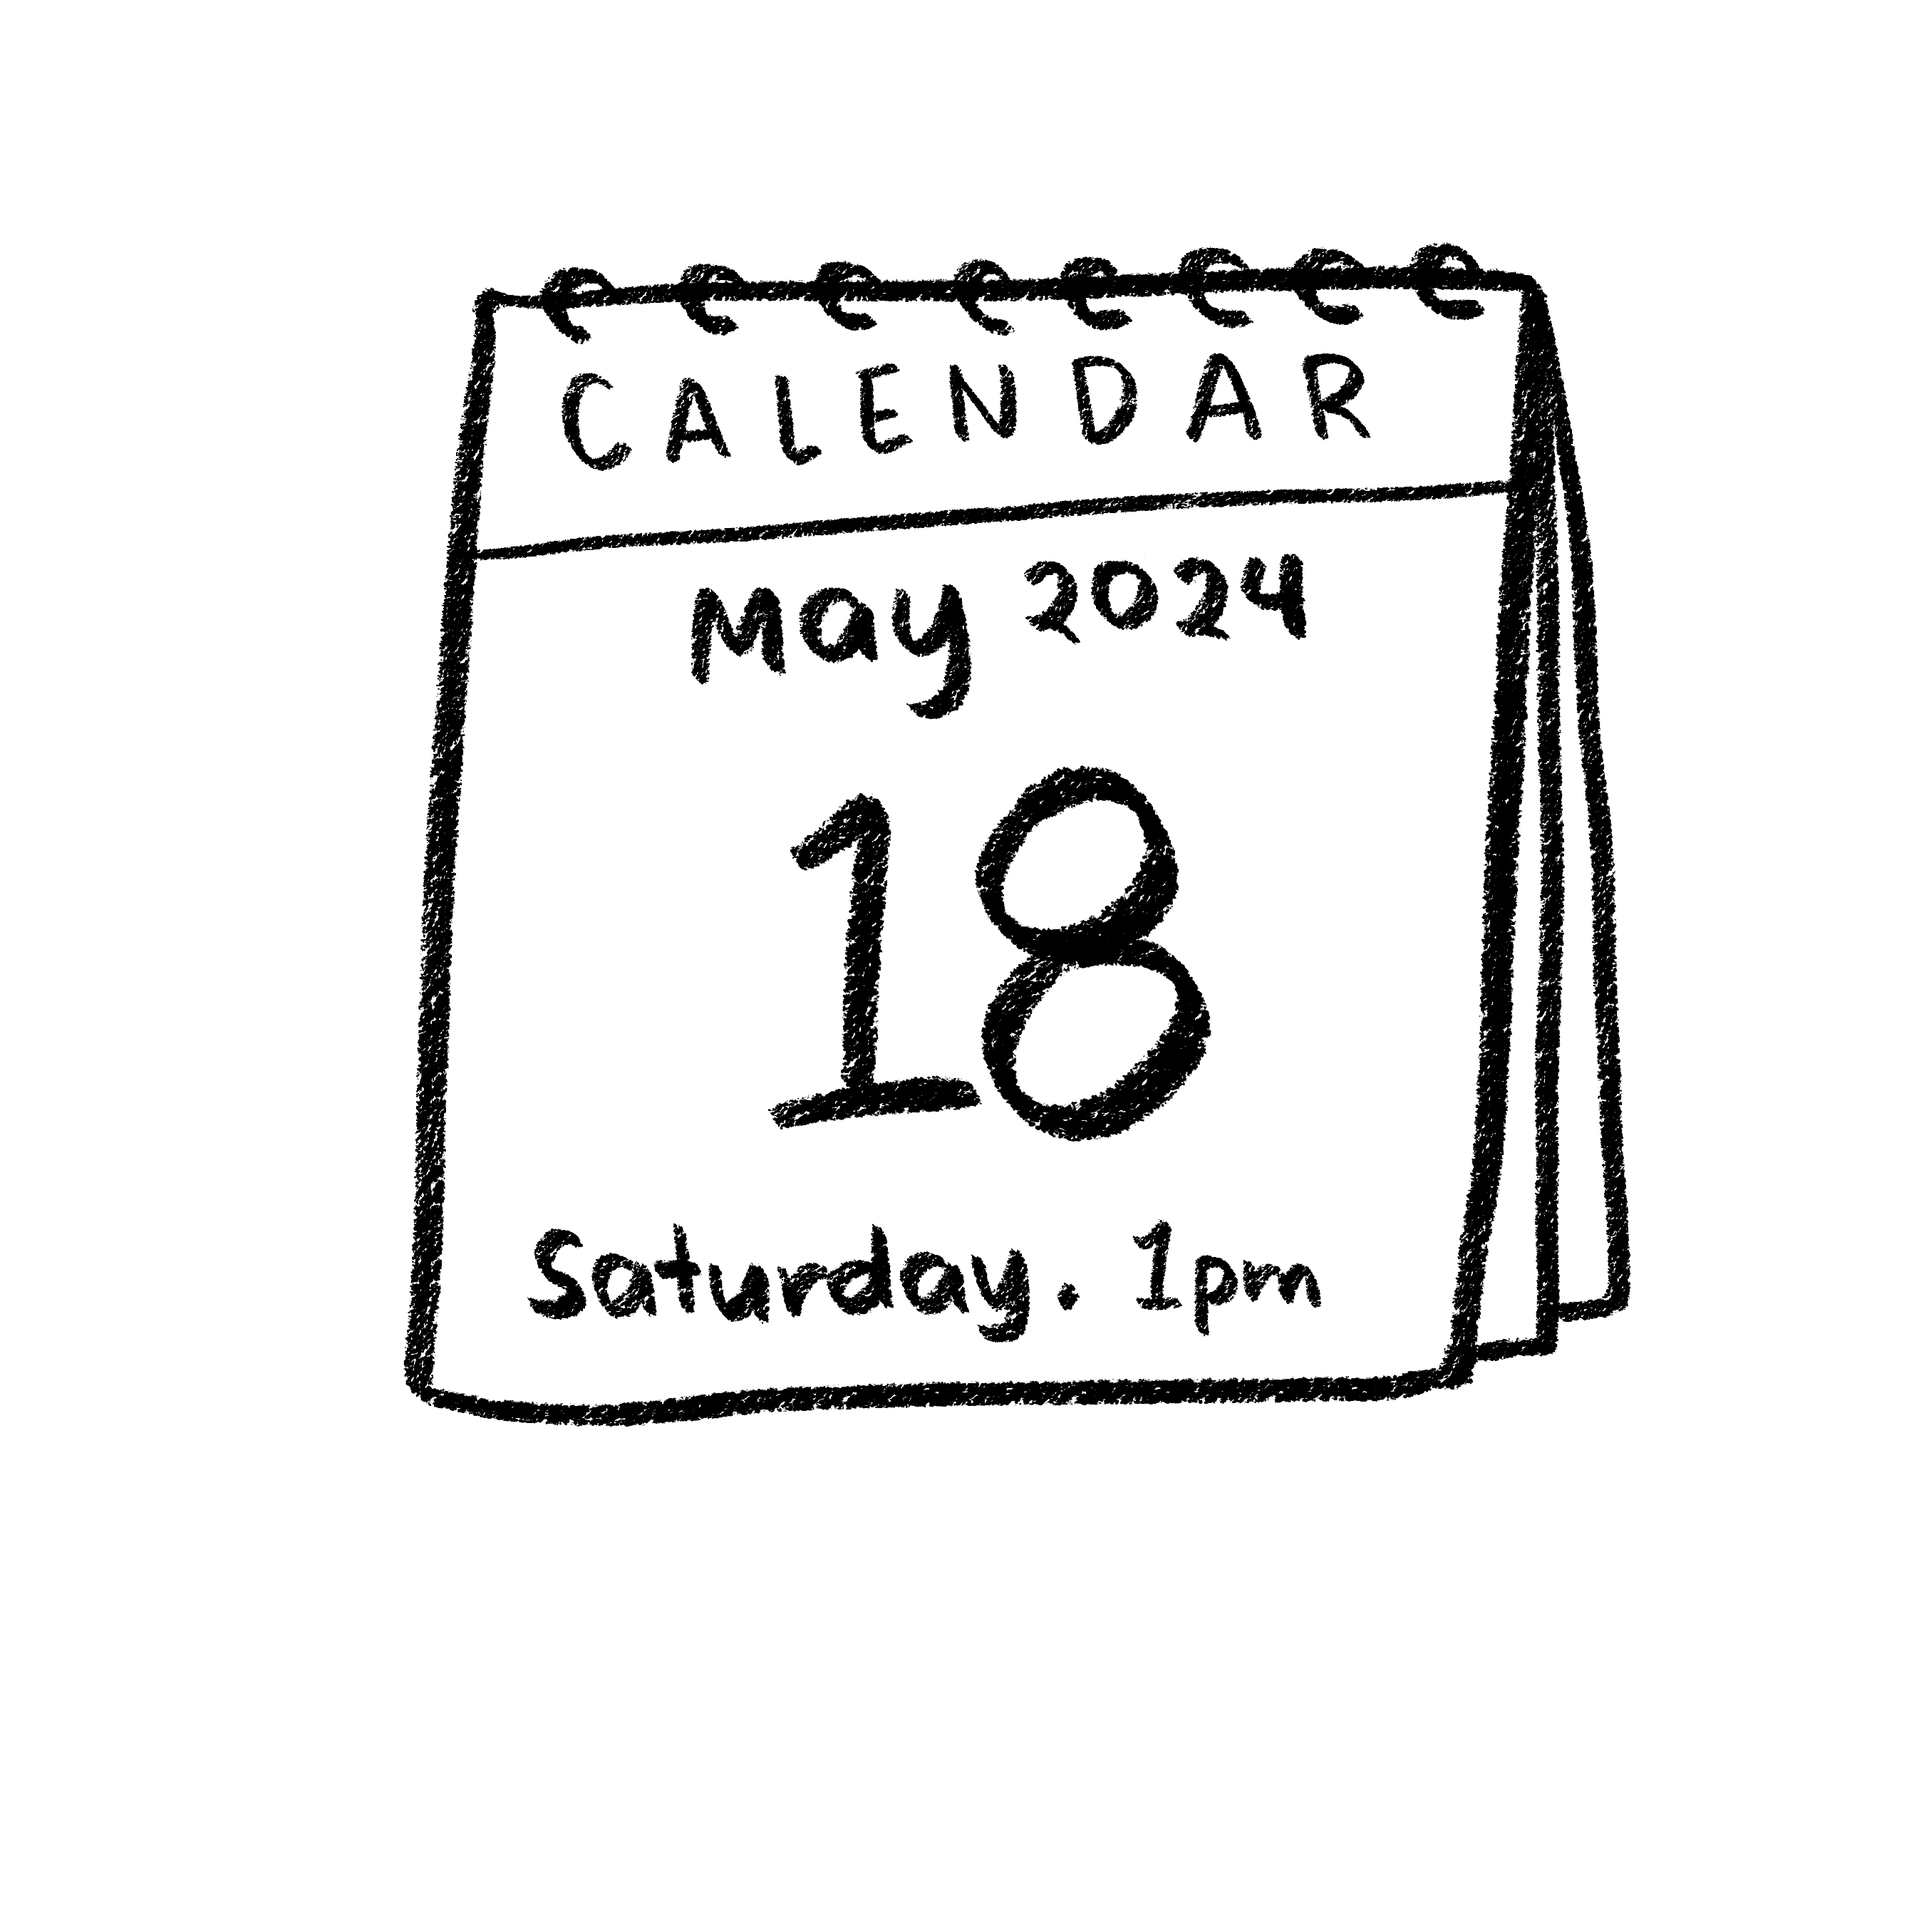
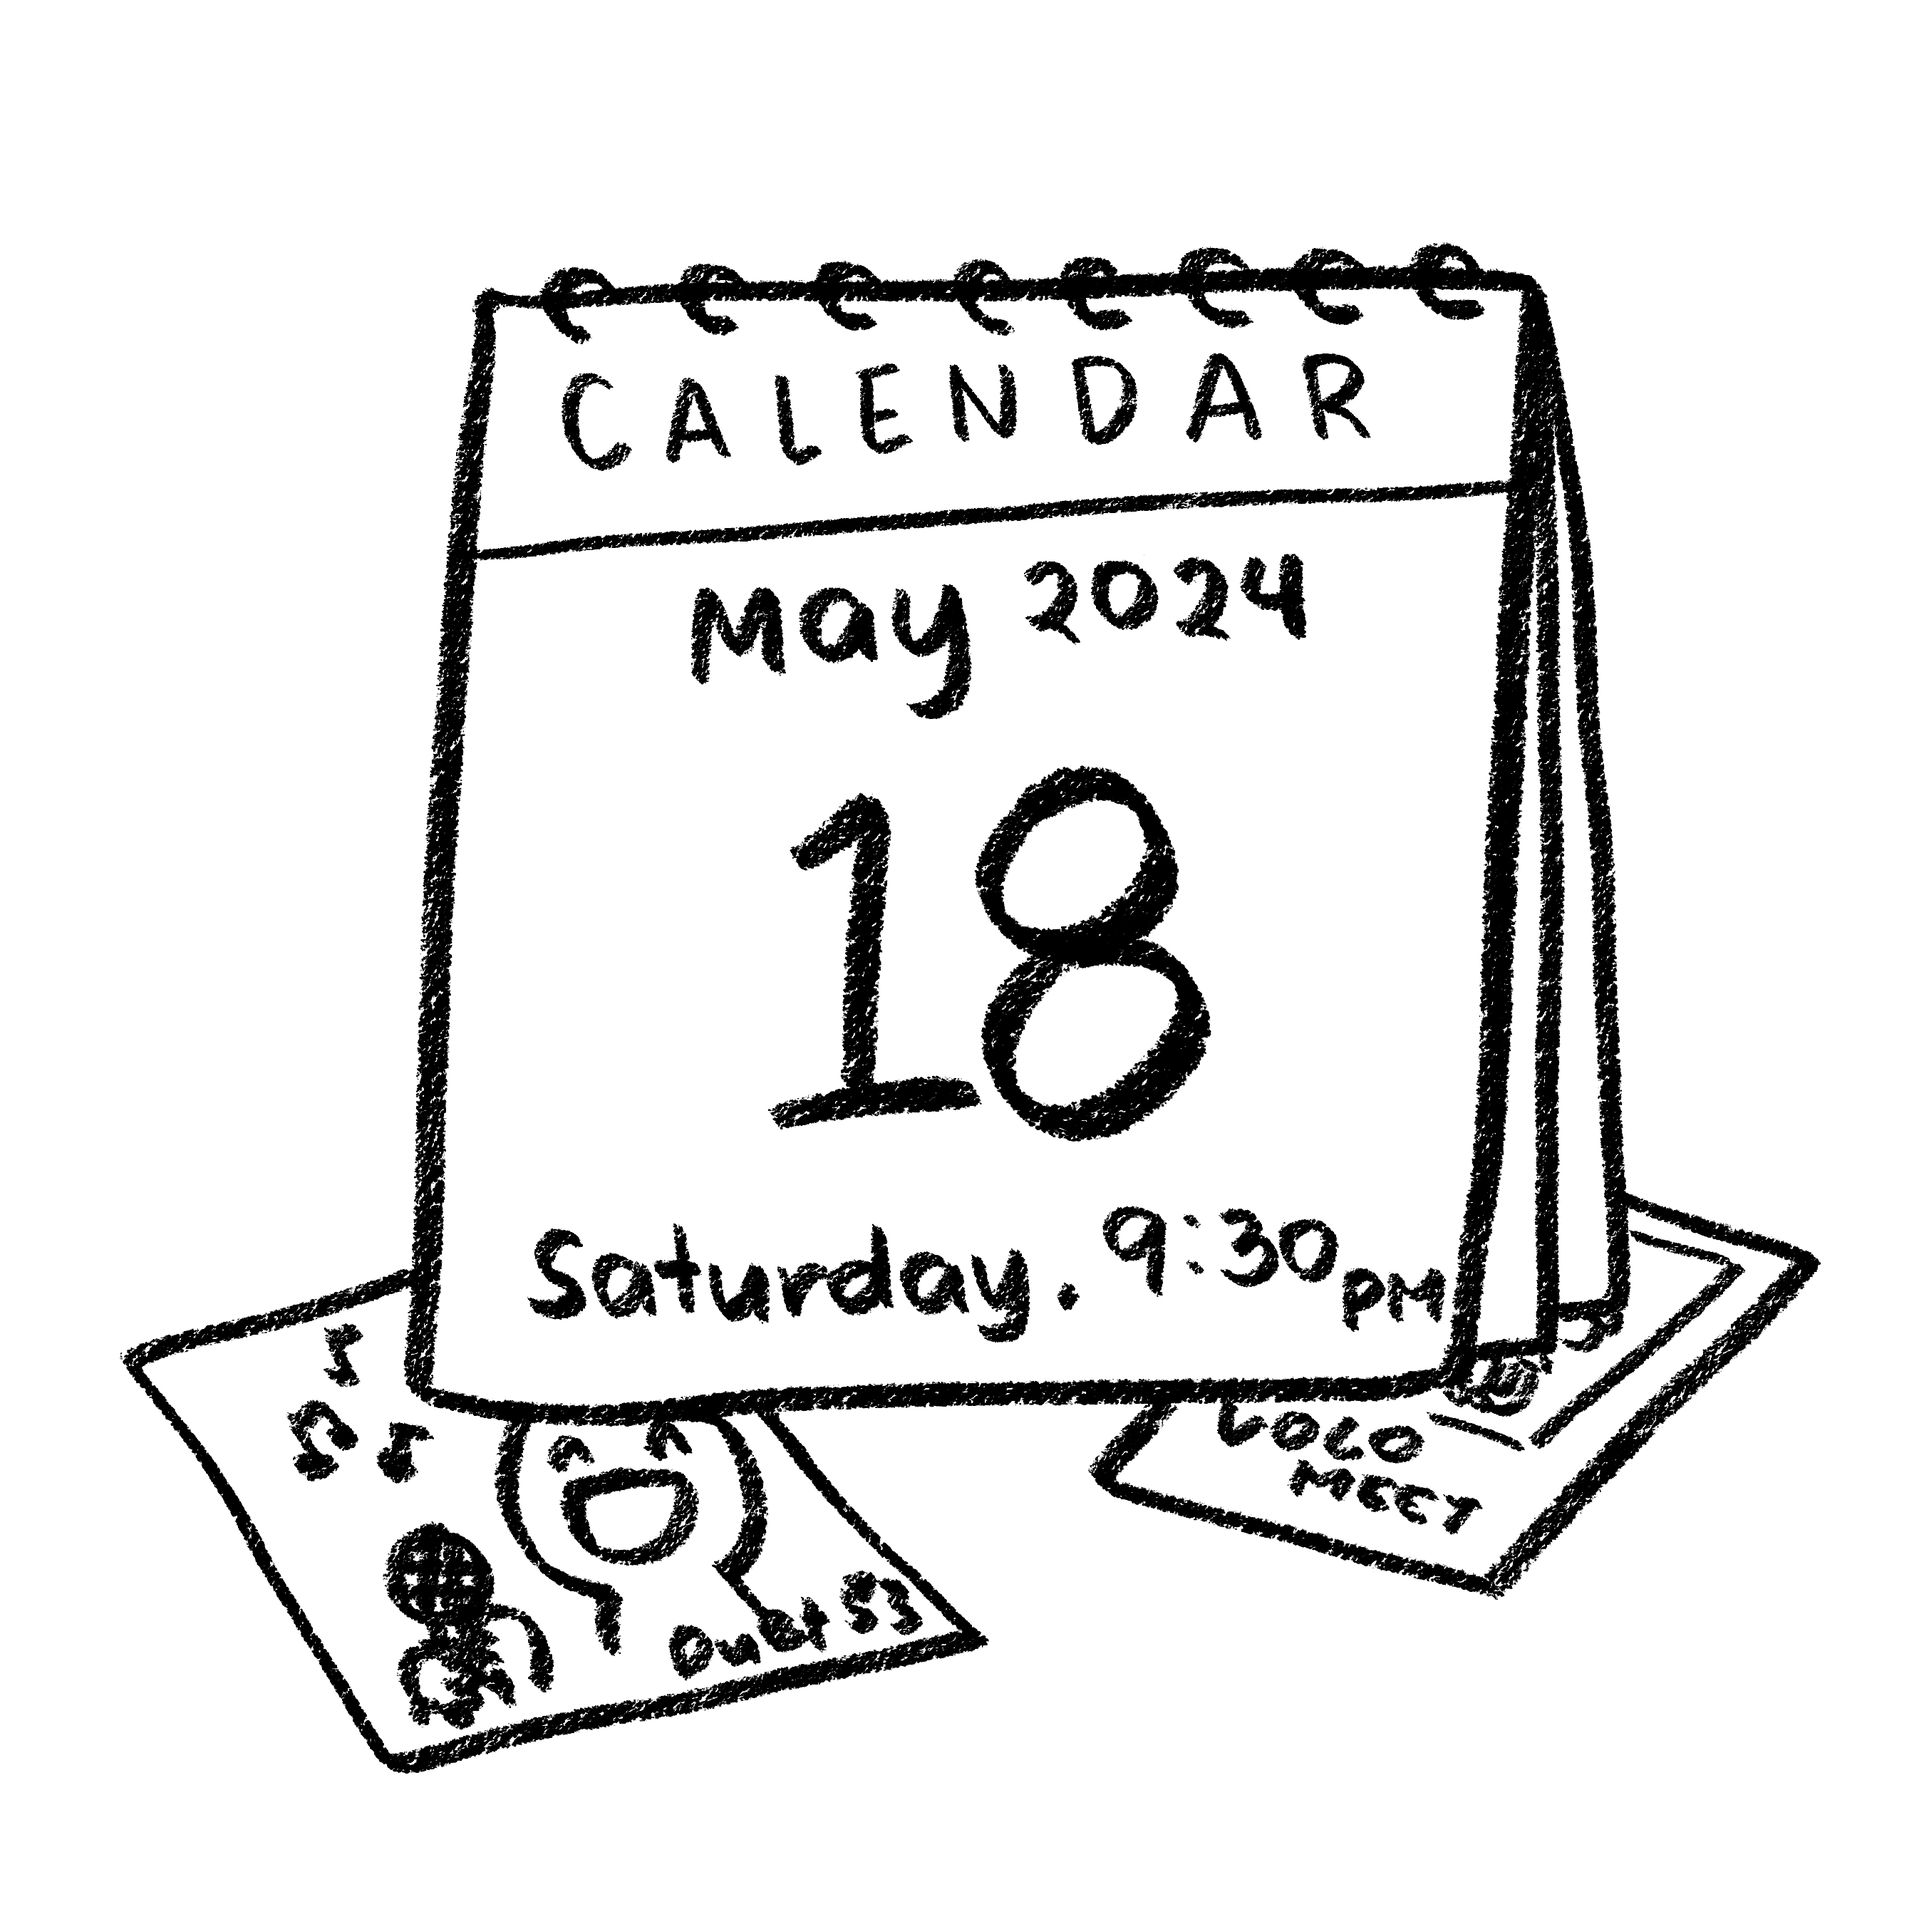
updated to karaoke copy + links

diff --git a/index.html b/index.html
@@ -14,8 +14,8 @@
 	<meta property="og:title" content="tishkeem2024.com">
 	<meta property="og:description" content="Tish and Keem are getting married!">
 
-	<link rel="shortcut icon" type="image/png" href="images/same_car.GIF">
-	<meta property="og:image" content="./images/same_car.GIF">
+	<link rel="shortcut icon" type="image/png" href="images/karaoke.gif">
+	<meta property="og:image" content="./images/karaoke.gif">
 
 	<link rel="stylesheet" href="assets/css/main.css" />
 	<noscript>
@@ -34,8 +34,8 @@
 			<div class="content">
 				<h1>Tish & Keem</h1>
 				<p class="major">
-					are going on a roadtrip <br>called married life,
-					<br>and we can't start the journey <br>without you!
+					are singing a duet <br>called "married life",
+					<br>and we can't start the party <br>without you!
 				</p>
 				<ul class="actions">
 					<li>
@@ -45,8 +45,8 @@
 					</li>
 				</ul>
 			</div>
-			<div id="driving-gif" class="image">
-				<img src="images/same_car.GIF" alt="" />
+			<div class="image">
+				<img src="images/karaoke.gif" alt="" />
 			</div>
 		</section>
 
@@ -55,23 +55,22 @@
 			class="banner style1 orient-right content-align-left fullscreen onscroll-image-fade-right onscroll-content-fade-left"
 			id="when">
 			<div class="content">
-				<h2>When is it happening?</h2>
+				<h2>When's it happening?</h2>
 				<p>
-					<strong>Saturday, May 18th 2024 at 1pm EST</strong>
-					<br>The ceremony starts strictly at 2pm,
+					<strong>Saturday, May 18th 2024 at 9:30pm EST</strong>
 					<br>so mark your calendars!
 				</p>
 				<ul class="actions">
 					<li>
 						<a target="_blank"
-							href="https://calendar.google.com/calendar/event?action=TEMPLATE&tmeid=NnFmcmYzbHJwYjVzNG0zaHR1MTJiM24wbGkgdGlzaGFrZWVtMjAyNEBt&tmsrc=tishakeem2024%40gmail.com">
+							href="https://calendar.google.com/calendar/event?action=TEMPLATE&tmeid=Nm1jaDczMnM4Nmp0NmVjamJlaG9hcjZpb2MgdGlzaGFrZWVtMjAyNEBt&tmsrc=tishakeem2024%40gmail.com">
 							<span class="button">
 								Google Calendar
 							</span>
 						</a>
 					</li>
 					<li>
-						<a target="_blank" href="Tish & Keem's Wedding.ics">
+						<a target="_blank" href="Tish & Keem's Wedding Karaoke.ics">
 							<span class="button">
 								Apple Calendar
 							</span>
@@ -96,16 +95,13 @@
 			<div class="content">
 				<h2>Where are we celebrating?</h2>
 				<p>
-					Ceremony will be at <br><strong>Sahola Flowers</strong>
-					<br>106 E 31st Street
-					<br>New York, NY 10016
-
-
-					<br><br>Reception will be <br>next door at <br><strong>Sahola Cafe</strong>
+					The party will be at <br><strong>Duet 53</strong>
+					<br>900 8th Avenue
+					<br>New York, NY 10019
 				</p>
 				<ul class="actions">
 					<li>
-						<a target="_blank" href="https://maps.app.goo.gl/WpYqzcC9DZ1KBGCm8">
+						<a target="_blank" href="https://maps.app.goo.gl/SDBRtCa2Jh9rYwYJ6">
 							<span class="button">
 								How to get there
 							</span>
@@ -130,39 +126,9 @@
 			<div class="content">
 				<h2>What should we wear?</h2>
 				<p>
-					Please come in <strong>spring formal</strong>.
-				</p>
-				<ul class="actions">
-					<li>
-						<a target="_blank" href="https://pin.it/2lehWkqDD">
-							<span class="button">
-								Outfit inspo
-							</span>
-						</a>
-					</li>
-					<li>
-						<a href="#dress-code" class="smooth-scroll-middle">
-							<i class="fas fa-chevron-down icon solid style2"></i>
-						</a>
-					</li>
-				</ul>
-			</div>
-			<div class="image">
-				<img src="images/attire.PNG" alt="" />
-			</div>
-		</section>
+					Please come in <strong>evening casual</strong>.
 
-		<!-- DRESS CODE -->
-		<section
-			class="banner style1 orient-left content-align-left fullscreen onscroll-image-fade-left onscroll-content-fade-right"
-			id="dress-code">
-			<div class="content">
-				<h2>What's the color palette?</h2>
-				<p>
-					<strong>Dresses</strong>: Shades of Gold, Golden Ochre, Peach
-					<br><strong>Suits</strong>: Shades of Neutral Tan, Light Sage, Black
-					<br><strong>Everyone</strong>: Shades of Tan
-					<br><strong>Avoid</strong>: Shades of Dark Green, Blue, Red, White
+					<br>But, no white dresses please!
 				</p>
 				<ul class="actions">
 					<li>
@@ -173,13 +139,13 @@
 				</ul>
 			</div>
 			<div class="image">
-				<img src="images/palette.PNG" alt="" />
+				<img src="images/attire.PNG" alt="" />
 			</div>
 		</section>
 
 		<!-- GIFTS -->
 		<section
-			class="banner style1 orient-right content-align-left fullscreen onscroll-image-fade-right onscroll-content-fade-left"
+			class="banner style1 orient-left content-align-left fullscreen onscroll-image-fade-left onscroll-content-fade-right"
 			id="gifts">
 			<div class="content">
 				<h2>What about gifts?</h2>
@@ -219,21 +185,21 @@
 
 		<!-- RSVP -->
 		<section
-			class="banner style1 orient-left content-align-left fullscreen onscroll-image-fade-left onscroll-content-fade-right"
+			class="banner style1 orient-right content-align-left fullscreen onscroll-image-fade-right onscroll-content-fade-left"
 			id="rsvp">
 			<div class="content">
 				<h2>How do I RSVP?</h2>
 				<p>
 					Please enter your info at the Partiful link below,
 					<br>and mark yourself as "Going"!
-				<blockquote>Note: Due to the space and safety limitations of our venue,
-					we cannot accommodate plus-ones and children.
+				<blockquote>Note: The karaoke room we booked has a set capacity, so
+					we will need your definite RSVP by May 10th, 2024.
 					Thank you for understanding!
 				</blockquote>
 				</p>
 				<ul class="actions">
 					<li>
-						<a target="_blank" href="https://partiful.com/e/ijFiqai0LMrp8sbeVg7q">
+						<a target="_blank" href="https://partiful.com/e/YSJuSUDr29vEmWQ7S52b">
 							<span class="button">
 								RSVP on Partiful
 							</span>
@@ -250,7 +216,7 @@
 		<section class="wrapper style1 align-center">
 			<div class="inner medium">
 				<div class="image fit">
-					<img src="images/plates.PNG" alt="" />
+					<img src="images/see_you.PNG" alt="" />
 				</div>
 			</div>
 		</section>
@@ -276,7 +242,7 @@
 						</a>
 					</li>
 				</ul>
-				<p>&copy; Tish Keem 05.18.2024 Wedding Invitation.
+				<p>&copy; Tish Keem 05.18.2024 Karaoke Invitation.
 					<br>Design: <a target="_blank" href="https://html5up.net">HTML5 UP</a>.
 				</p>
 			</div>

diff --git a/assets/js/main.js b/assets/js/main.js
@@ -8,8 +8,7 @@
 
 	var	$window = $(window),
 		$body = $('body'),
-		$wrapper = $('#wrapper'),
-		$drivingGif = $('#driving-gif');
+		$wrapper = $('#wrapper');
 
 	// Breakpoints.
 		breakpoints({
@@ -26,20 +25,6 @@
 			window.setTimeout(function() {
 				$body.removeClass('is-preload');
 			}, 100);
-		});
-
-	// Play driving animations on scroll.
-		const initialLeft = $drivingGif.position().left;
-		const scrollThreshold = 0;
-		const drivingSpeed = -1;
-
-		$window.on('scroll', function() {
-			if(document.documentElement.scrollTop > scrollThreshold && document.documentElement.scrollTop < 1000) {
-				const newLeft = initialLeft + ((document.documentElement.scrollTop - scrollThreshold) * drivingSpeed);
-				$drivingGif.offset({left : newLeft});
-			} else {
-				$drivingGif.offset({left : initialLeft});
-			}
 		});
 
 	// Browser fixes.

diff --git a/assets/css/main.css b/assets/css/main.css
@@ -8797,8 +8797,3 @@ body.is-preload .items.onload-fade-in>*>.inner {
 #wrapper.divided>.invert:first-child {
 	box-shadow: none !important;
 }
-
-#driving-gif {
-	position: relative;
-	transition-duration: 0.175s;
-}
